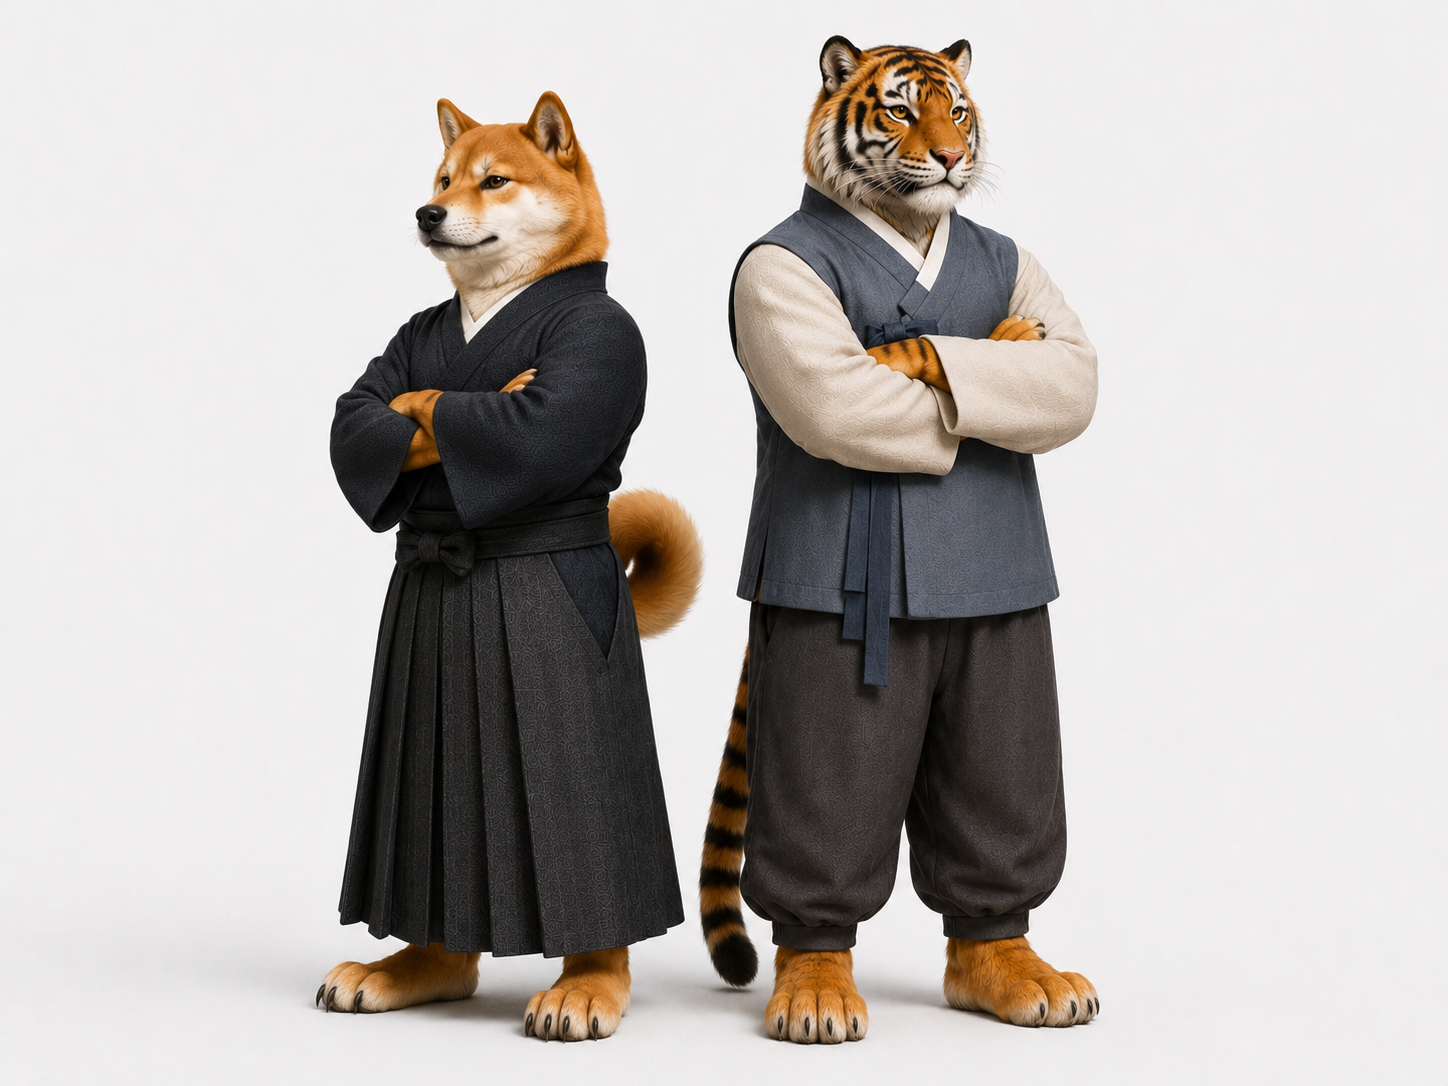
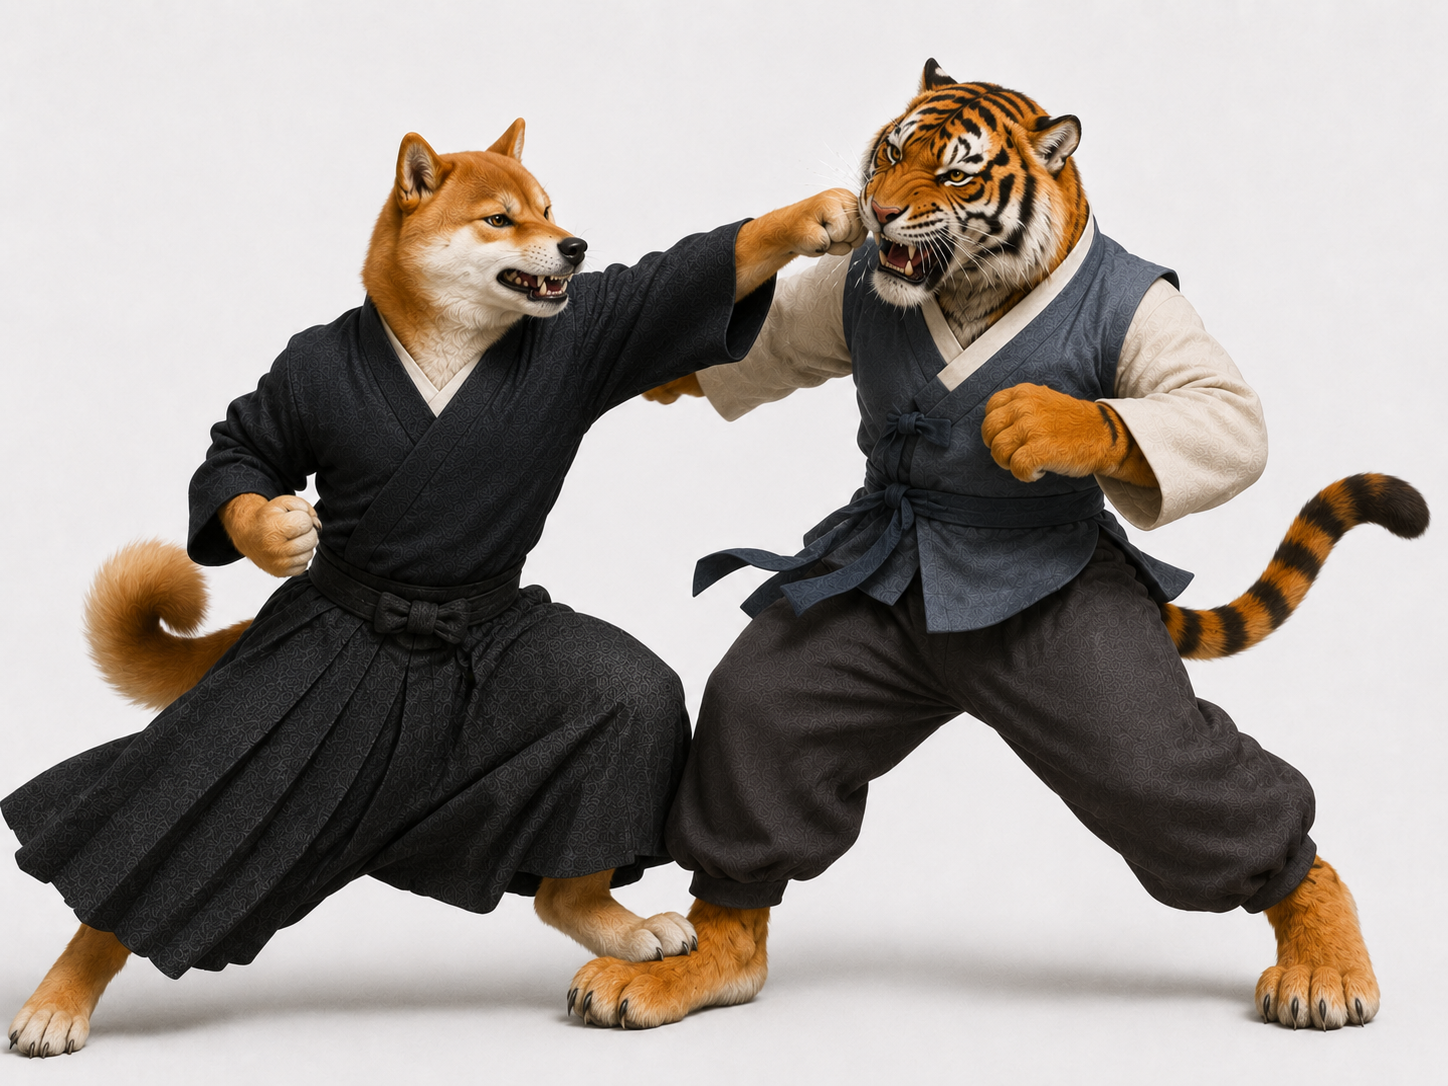
picture

diff --git a/issueface/src/components/UsageModal.jsx b/issueface/src/components/UsageModal.jsx
@@ -9,7 +9,7 @@ const steps = [
   {
     num: '02',
     title: '이슈 선택',
-    desc: '분석하고 싶은 주제를 선택하거나 직접 입력하세요.',
+    desc: '분석하고 싶은 주제를 선택하거나 직접 입력하세요.(영어 입력을 권장합니다.)',
   },
   {
     num: '03',